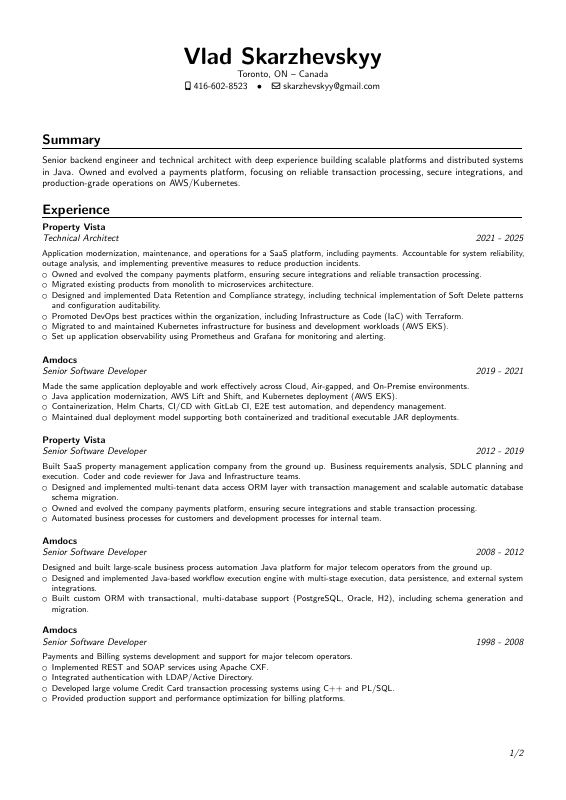
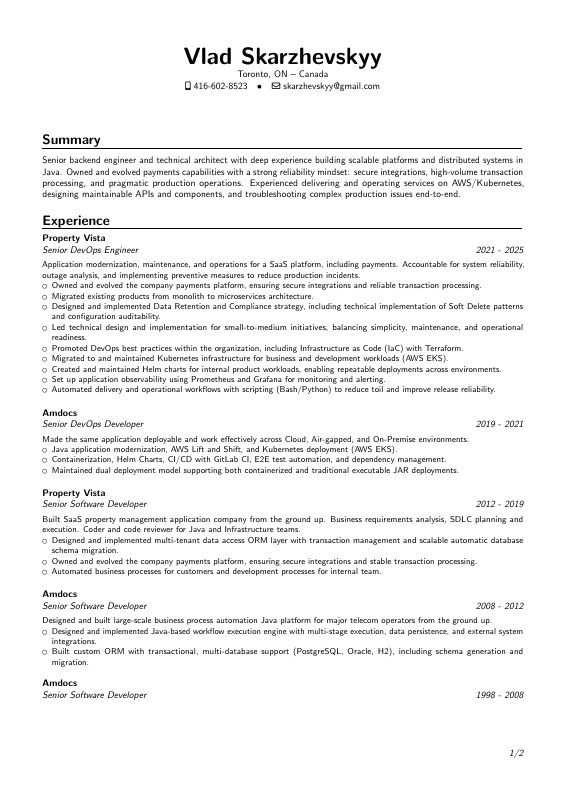
try Senior DevOps Enginee

Changed region(s): [[0.0601, 0.1875, 0.9311, 0.875], [0.9011, 0.8438, 0.9311, 0.875], [0.6608, 0.8438, 0.6908, 0.875]]

diff --git a/src/resume.tex b/src/resume.tex
@@ -37,13 +37,13 @@
 \makecvtitle
 
 \section{Summary}
-\cvitem{}{Senior backend engineer and technical architect with deep experience building scalable platforms and distributed systems in Java. Owned and evolved a payments platform, focusing on reliable transaction processing, secure integrations, and production-grade operations on AWS/Kubernetes.}
+\cvitem{}{Senior backend engineer and technical architect with deep experience building scalable platforms and distributed systems in Java. Owned and evolved payments capabilities with a strong reliability mindset: secure integrations, high-volume transaction processing, and pragmatic production operations. Experienced delivering and operating services on AWS/Kubernetes, designing maintainable APIs and components, and troubleshooting complex production issues end-to-end.}
 
 \section{Experience}
 
 \cventry
   {2021 - 2025}
-  {Technical Architect}
+  {Senior DevOps Engineer}
   {Property Vista}
   {}{}
   {
@@ -53,16 +53,19 @@
       \item Owned and evolved the company payments platform, ensuring secure integrations and reliable transaction processing.
       \item Migrated existing products from monolith to microservices architecture.
       \item Designed and implemented Data Retention and Compliance strategy, including technical implementation of Soft Delete patterns and configuration auditability.
+      \item Led technical design and implementation for small-to-medium initiatives, balancing simplicity, maintenance, and operational readiness.
       \item Promoted DevOps best practices within the organization, including Infrastructure as Code (IaC) with Terraform.
       \item Migrated to and maintained Kubernetes infrastructure for business and development workloads (AWS EKS).
+      \item Created and maintained Helm charts for internal product workloads, enabling repeatable deployments across environments.
       \item Set up application observability using Prometheus and Grafana for monitoring and alerting.
+      \item Automated delivery and operational workflows with scripting (Bash/Python) to reduce toil and improve release reliability.
     \end{itemize}
     \vspace{1em}
   }
 
 \cventry
   {2019 - 2021}
-  {Senior Software Developer}
+  {Senior DevOps Developer}
   {Amdocs}
   {}{}
   {
@@ -192,15 +195,16 @@
 %  {}{}{}{}
 
 \section{Skills}
-\cvitem{Cloud \& Infrastructure}{Kubernetes, AWS EKS, RDS, Karpenter, Terraform, Crossplane}
+\cvitem{Cloud \& Infrastructure}{Kubernetes, AWS EKS, RDS, Karpenter, Terraform, Crossplane, k3s}
 \cvitem{Payments}{Payment platform ownership, Credit Cards, EFT, Direct Bill Payments, Outbound Payments}
 \cvitem{Databases}{PostgreSQL, Cloud Native PostgreSQL, Oracle, MySQL}
 \cvitem{Monitoring \& Observability}{Prometheus, Grafana, Loki, OpenTelemetry, Datadog}
 \cvitem{Development \& Testing Tools}{GitLab CI/CD, Chaos Mesh, Toxiproxy, YourKit}
 \cvitem{E2E Testing Frameworks}{Playwright, Selenium, K6}
 \cvitem{Frameworks}{Spring Boot, Resilience4j, Micrometer}
+\cvitem{DevSecOps}{SonarQube, kubescape, kubeconform}
+\cvitem{Scripting \& Automation}{Bash, Bats, Shell Assert, Python}
 \cvitem{AI/ML}{LangChain4j, Spring AI, Amazon Bedrock}
 
 
 \end{document}
-

diff --git a/req/Senior DevOps Engineer - Staffinity Inc.md b/req/Senior DevOps Engineer - Staffinity Inc.md
@@ -1,0 +1,71 @@
+https://ca.indeed.com/viewjob?jk=3df8eaa6b1c7d80a&from=shareddesktop_copy
+
+Full job description
+About Staffinity
+
+We are your trusted bilingual recruiting, short and long-term staffing service provider. Our primary goal has been matching sought-after employers with talented candidates. We are your source to get you in front of desirable employers who are now hiring in your area. Please visit us at http://staffinity.ca
+
+Why Work With Us?
+Incredible opportunity to solve complex problems
+Work with one of the most cutting edge companies in Canada
+Build a platform for the next generation of innovation
+Work with and learn from some of the most renowned industry experts in the world
+Great potential for upside and/or equity
+
+Staffinity is currently seeking a Senior DevOps Engineer for a client located in Mississauga. This is a full-time, permanent position with salary, benefits and the potential for upside. The base salary range is 115-140k. We are ideally looking for candidates with experience refining the CI/CD and automation systems and supporting multi-cloud, container-based environments. Must be able to work full-time out of the Mississauga office, Monday to Friday, daytime hours. Be part of the only company in the Western world working on this exciting technology!!
+
+Responsibilities
+
+Design and enhance CI/CD pipelines for multiple repositories using Jenkins or equivalent tools
+Build and operate Kubernetes clusters and Helm deployments across cloud environments
+Develop Infrastructure-as-Code templates (Terraform or Ansible) for provisioning and configuration
+Create and maintain Python and Bash automation scripts to improve reliability and reduce manual tasks
+Implement GitOps workflows and environment management through ArgoCD
+Manage container image creation, registry security, and vulnerability scanning
+Set up comprehensive monitoring, logging, and alerting with Prometheus, Grafana, ELK/Loki
+Automate database migrations and schema versioning (Liquibase, Flyway, etc.)
+Embed DevSecOps practices using tools such as SonarQube, Trivy, Snyk, or Anchore
+Collaborate with developers and product owners to improve system performance, scalability, and delivery cadence
+Qualifications
+
+Minimum 5 years in DevOps or related engineering roles
+Hands-on experience with Kubernetes (pods, ingress, RBAC, autoscaling, namespaces)
+Proven expertise with CI/CD tools (Jenkins, Bitbucket Pipelines, GitLab Runners, Bamboo, etc.)
+Strong scripting ability in Python and Bash
+Skilled with Helm chart management and multi-environment deployment
+Cloud experience with AWS, Azure, or GCP (EKS/GKE/AKS)
+Infrastructure automation via Terraform or Ansible
+Knowledge of container management (Dockerfiles, multi-stage builds, image hardening)
+Familiarity with observability stacks (Prometheus, Grafana, ELK/Loki)
+Understanding of security compliance frameworks and secrets management tools (Vault, SealedSecrets, SOPS)
+Nice to Have
+
+Familiarity with service meshes (Istio, Linkerd) or Kustomize
+Knowledge of Groovy or shared-library development in Jenkins
+Exposure to telecom or next-generation networking (5G) domains
+What We’re Looking For
+
+A proactive engineer who thrives in agile, high-innovation environments. Someone who enjoys automating the un-automated, improving reliability, and enabling teams to ship confidently.
+
+Job Types: Full-time, Permanent
+
+Pay: $115,000.00-$140,000.00 per year
+
+Benefits:
+
+Dental care
+Disability insurance
+Extended health care
+Life insurance
+Paid time off
+Profit sharing
+RRSP match
+Vision care
+Experience:
+
+Helm Chart Management: 4 years (required)
+Observability stack (Prometheus, Grafana, ELK/Loki): 4 years (required)
+DevOps: 7 years (required)
+CI/CD Tools: 6 years (required)
+Kubernetes: 6 years (required)
+Work Location: In person
